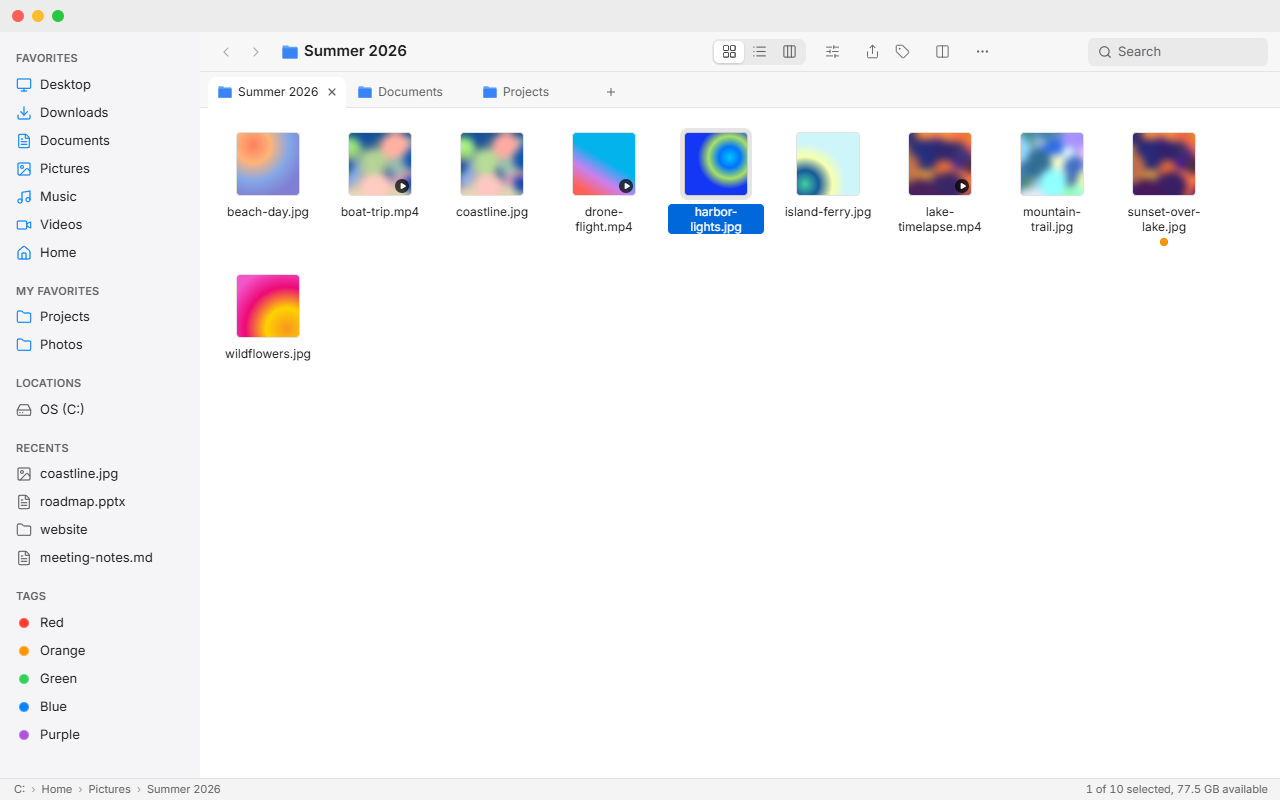
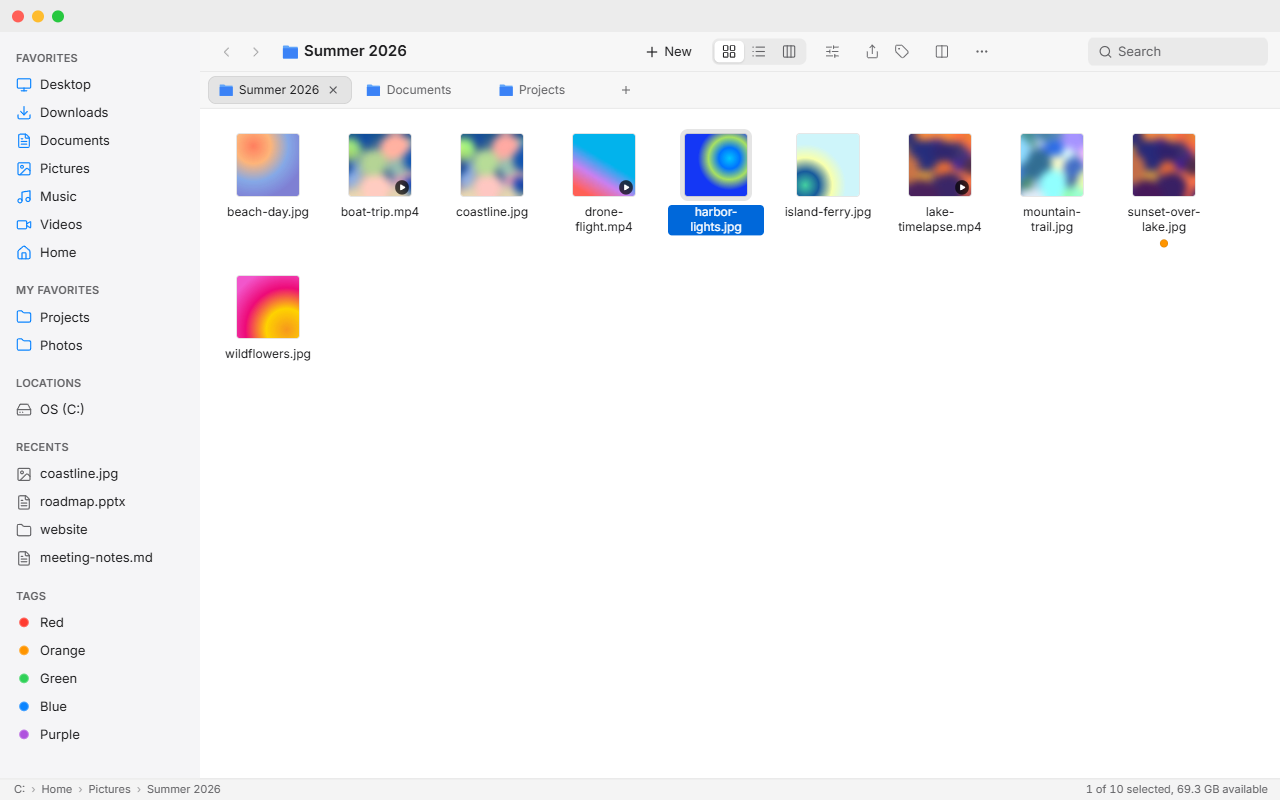
Release 1.4.2

diff --git a/docs/store-listing.md b/docs/store-listing.md
@@ -27,21 +27,26 @@ Browse deep folder trees in Column view with a preview pane, or switch to Icons 
 
 Press Ctrl+K to open the command palette: jump to favorites, recent folders and tabs, run any action, or type a path. Press Space for a quick preview – images, PDF, video, audio, text, source code and Markdown.
 
-Finder-Win works with the real Windows clipboard, so you can copy files to and from File Explorer, Outlook or your browser. Drag files in from File Explorer or the desktop. Undo and redo cover the last 50 operations, including deletions (restored from the Recycle Bin).
+Finder-Win works with the real Windows clipboard, so you can copy files to and from File Explorer, Outlook or your browser. Drag & drop works both ways: drag files in from File Explorer or the desktop, and drag them out to File Explorer, the desktop, a browser upload, Discord or an e-mail. The New button creates folders, text documents and every file type Windows offers in its New menu. Undo and redo cover the last 50 operations, including deletions (restored from the Recycle Bin).
 
 Light and dark mode follow Windows. The interface is in English and Czech.
 
 Privacy: no telemetry, no account, no ads. The Microsoft Store version itself makes no network requests – updates come from the Store.
 
-### Features (6–8)
+### What's new
+First Microsoft Store release.
+
+### Features (6–10)
 1. Column view with a preview pane, plus Icons and List views
 2. Tabs with their own history, view and sorting
 3. Split view: two panels, F5 / F6 copy and move between them
 4. Command palette (Ctrl+K) for folders, actions, tags and paths
 5. Quick preview (Space) for images, PDF, video, audio, text and Markdown
 6. Video and PDF thumbnails with duration, resolution and page count
-7. Real Windows clipboard and drag & drop from File Explorer
-8. Undo / redo for the last 50 file operations; light and dark mode
+7. Real Windows clipboard; drag & drop to and from File Explorer, browser, Discord and e-mail
+8. New button: folder, text document and the Windows New file types
+9. Undo / redo for the last 50 file operations
+10. Light and dark mode that follows Windows; English and Czech
 
 ### Keywords (max 7)
 file manager, mac-style, file explorer, column view, tabs, dual pane, explorer alternative
@@ -63,21 +68,26 @@ Hluboké stromy složek procházíš ve sloupcovém zobrazení s náhledovým pa
 
 Ctrl+K otevře paletu příkazů: skok na oblíbené a nedávné složky či záložky, libovolná akce nebo zadání cesty. Mezerník otevře rychlý náhled – obrázky, PDF, video, zvuk, text, zdrojáky i Markdown.
 
-Finder-Win používá skutečnou schránku Windows, takže soubory kopíruješ z i do Průzkumníku, Outlooku nebo prohlížeče. Soubory jde přetáhnout dovnitř z Průzkumníku nebo z plochy. Zpět a Znovu fungují pro posledních 50 operací včetně mazání (obnoví z Koše).
+Finder-Win používá skutečnou schránku Windows, takže soubory kopíruješ z i do Průzkumníku, Outlooku nebo prohlížeče. Přetahování funguje oběma směry: soubory přetáhneš dovnitř z Průzkumníku nebo z plochy a ven do Průzkumníku, na plochu, do prohlížeče, Discordu nebo e-mailu. Tlačítko Nový vytvoří složku, textový dokument i jakýkoli typ souboru z nabídky Nový ve Windows. Zpět a Znovu fungují pro posledních 50 operací včetně mazání (obnoví z Koše).
 
 Světlý a tmavý režim se řídí Windows. Rozhraní je česky a anglicky.
 
 Soukromí: žádná telemetrie, žádný účet, žádné reklamy. Verze z Microsoft Storu sama nedělá žádné síťové požadavky – aktualizace přicházejí ze Storu.
 
-### Funkce (6–8)
+### Novinky
+První vydání v Microsoft Storu.
+
+### Funkce (6–10)
 1. Sloupcové zobrazení s náhledovým panelem, k tomu Ikony a Seznam
 2. Záložky s vlastní historií, zobrazením a řazením
 3. Rozdělené okno: dva panely, F5 / F6 kopíruje a přesouvá mezi nimi
 4. Paleta příkazů (Ctrl+K) pro složky, akce, štítky a cesty
 5. Rychlý náhled (mezerník) pro obrázky, PDF, video, zvuk, text a Markdown
 6. Náhledy videí a PDF s délkou, rozlišením a počtem stran
-7. Skutečná schránka Windows a přetahování z Průzkumníku
-8. Zpět / Znovu pro posledních 50 operací; světlý a tmavý režim
+7. Skutečná schránka Windows; přetahování z i do Průzkumníku, prohlížeče, Discordu a e-mailu
+8. Tlačítko Nový: složka, textový dokument a typy souborů z nabídky Nový ve Windows
+9. Zpět / Znovu pro posledních 50 operací
+10. Světlý a tmavý režim podle Windows; čeština a angličtina
 
 ### Klíčová slova (max 7)
 správce souborů, styl macu, průzkumník, sloupcové zobrazení, záložky, dva panely, file manager

diff --git a/README.cs.md b/README.cs.md
@@ -38,7 +38,7 @@ nebo: `winget install krystof2-ops.FinderWin` *(brzy)*
 </picture>
 
 - Zobrazení **Ikony, Seznam a Sloupce**; náhledy obrázků, videí (s odznakem ▶) a PDF.
-- **Záložky** – každá s vlastní historií, zobrazením, řazením a výběrem; přerovnání tažením, soubor puštěný na záložku se přesune do její složky.
+- **Záložky** – zaoblené čipy, každá s vlastní historií, zobrazením, řazením a výběrem; přerovnání tažením, soubor puštěný na záložku se přesune do její složky.
 - **Světlý a tmavý režim** podle Windows, nebo nastavený v Více → Vzhled. Rozhraní česky a anglicky.
 
 ### Rozdělené okno
@@ -67,7 +67,10 @@ nebo: `winget install krystof2-ops.FinderWin` *(brzy)*
 
 ### Běžná práce se soubory
 
-- **Skutečná schránka Windows** – Ctrl+C / Ctrl+X / Ctrl+V fungují s Průzkumníkem, Outlookem i prohlížeči; soubory jde přetáhnout dovnitř z Průzkumníku nebo z plochy.
+- **Skutečná schránka Windows** – Ctrl+C / Ctrl+X / Ctrl+V fungují s Průzkumníkem, Outlookem i prohlížeči.
+- **Drag & drop oběma směry** – soubory jde pustit dovnitř z Průzkumníku nebo z plochy a přetáhnout ven do Průzkumníku, na plochu, do uploadu v prohlížeči, do Discordu nebo do e-mailu. Výchozí je kopie, `Shift` přesouvá.
+- **Tlačítko + Nový** v toolbaru – Složka, Textový dokument a všechny typy z nabídky Nový ve Windows (Word, Excel, ZIP …); také v kontextovém menu (Nový ▸) a v paletě příkazů. Kolize názvů dostanou „(2)“ jako v Průzkumníku.
+- **Terminály** – PowerShell 7 a Windows PowerShell jsou v Více → Terminál zvlášť; `Shift`+klik na Otevřít v terminálu nabídne libovolný nainstalovaný terminál.
 - **Zpět / Znovu** (Ctrl+Z / Ctrl+Y) pro posledních 50 přejmenování, přesunů, kopií, nových položek, smazání a změn štítků.
 - **Postranní panel** se standardními složkami, všemi disky (aktualizuje se po připojení USB), vlastními oblíbenými, nedávnými a barevnými štítky jako ve Finderu.
 
@@ -130,7 +133,6 @@ Připravujeme: **winget** (`winget install krystof2-ops.FinderWin`; manifest je 
 
 - Jen pro Windows.
 - Historie Zpět platí jen za běhu aplikace. Soubor přepsaný volbou *Nahradit* se vrátit nedá.
-- Soubory jde do Finder-Winu přetáhnout, ale ne ven do Průzkumníku nebo jiných aplikací – místo toho Ctrl+C a vložit tam.
 - Telefony a fotoaparáty (MTP) jsou v panelu vidět, ale otevřou se v Průzkumníku Windows.
 - Rekurzivní hledání porovnává jen názvy souborů a končí na 500 výsledcích.
 - Záložky ano, víc oken ne.

diff --git a/README.md b/README.md
@@ -38,7 +38,7 @@ or: `winget install krystof2-ops.FinderWin` *(coming soon)*
 </picture>
 
 - **Icons, List and Columns** views; thumbnails for images, videos (with a ▶ badge) and PDFs.
-- **Tabs** – each with its own history, view, sorting and selection; drag to reorder, drop files on a tab to move them there.
+- **Tabs** – rounded chips, each with its own history, view, sorting and selection; drag to reorder, drop files on a tab to move them there.
 - **Light and dark mode** following Windows, or set it in More → Appearance. English and Czech UI.
 
 ### Split view
@@ -67,7 +67,10 @@ or: `winget install krystof2-ops.FinderWin` *(coming soon)*
 
 ### Everyday file work
 
-- **Real Windows clipboard** – Ctrl+C / Ctrl+X / Ctrl+V work with Explorer, Outlook and browsers; drag files in from Explorer or the desktop.
+- **Real Windows clipboard** – Ctrl+C / Ctrl+X / Ctrl+V work with Explorer, Outlook and browsers.
+- **Drag & drop both ways** – drop files in from Explorer or the desktop; drag them out to Explorer, the desktop, a browser upload, Discord or an e-mail. Copy by default, `Shift` moves.
+- **+ New button** in the toolbar – Folder, Text Document and every file type from Windows' New menu (Word, Excel, ZIP …); also in the context menu (New ▸) and the command palette. Name collisions get “(2)” like in Explorer.
+- **Terminals** – PowerShell 7 and Windows PowerShell are listed separately in More → Terminal; `Shift`+click Open in Terminal picks any installed terminal.
 - **Undo / Redo** (Ctrl+Z / Ctrl+Y) for the last 50 renames, moves, copies, new items, deletions and tag changes.
 - **Sidebar** with standard folders, all drives (updates when a USB drive is plugged in), custom favorites, recents and Finder-style color tags.
 
@@ -130,7 +133,6 @@ Also coming: **winget** (`winget install krystof2-ops.FinderWin`; the manifest i
 
 - Windows only.
 - Undo history lives only while the app runs. A file overwritten by *Replace* can't be brought back.
-- Files can be dragged *into* Finder-Win, but not out of it to Explorer or other apps – use Ctrl+C and paste there.
 - Phones and cameras (MTP) are listed, but open in Windows Explorer.
 - Recursive search matches file names only and stops at 500 results.
 - Tabs, but no multiple windows.

diff --git a/CLAUDE.md b/CLAUDE.md
@@ -11,7 +11,7 @@ Finder-like správce souborů pro Windows (jen Windows). Tauri 2 + React 19/TS +
 - `src/fileops.ts` – typované wrappery nad `invoke`, vč. `localizeError`.
 - `src/lib/*` – `storage.ts` (settings.json přes tauri-plugin-store), `dnd.ts`, `motion.ts`, `updates.ts` (kontrola aktualizací) aj.
 - `src/i18n/cs.ts` + `en.ts` – překlady; `src/components/` – UI (např. `TabBar.tsx`, `CommandPalette.tsx`).
-- `src-tauri/src/main.rs` – commandy a souborové operace; `clipboard.rs` – schránka Windows (CF_HDROP); `external_drop.rs` – drop z Průzkumníku.
+- `src-tauri/src/main.rs` – commandy a souborové operace; `clipboard.rs` – schránka Windows (CF_HDROP); `external_drop.rs` – drop z Průzkumníku; `native_drag.rs` – tažení ven (nativní OLE drag); `shellnew.rs` – nabídka Nový (registr ShellNew).
 - `winget/` + `.github/workflows/winget-manifest.yml` – manifest a workflow (bere tag jen ve tvaru `vX.Y.Z`).
 - `src-tauri/nsis/Czech.nsh` – vlastní český překlad NSIS instalátoru (`bundle.windows.nsis.customLanguageFiles`).
 - README existuje ve dvou verzích (`README.md`, `README.cs.md`) – měň je společně. Changelog je v `CHANGELOG.md` (README jen odkazuje).

diff --git a/CHANGELOG.md b/CHANGELOG.md
@@ -2,6 +2,14 @@
 
 Notable changes in each Finder-Win release. Installers are on the [Releases](https://github.com/krystof2-ops/finder-win/releases) page.
 
+## [1.4.2](https://github.com/krystof2-ops/finder-win/releases/tag/v1.4.2) – 2026-10-09
+
+- **Drag out of the app** – drag files and folders from Finder-Win to File Explorer, the desktop, a browser upload, Discord or an e-mail. Copy by default, Shift moves. Drag & drop now works both ways.
+- **New button** – **+ New** in the toolbar, like File Explorer: Folder, Text Document and every file type Windows offers in New (Word, Excel, ZIP …); also in the context menu (New ▸) and the command palette.
+- **Rounded tabs** – each tab is a rounded chip; the active one is highlighted without blending into the content.
+- **Terminals** – More → Terminal lists PowerShell 7 and Windows PowerShell separately; unavailable ones are greyed out. Shift+click Open in Terminal picks any installed terminal.
+- **Names like File Explorer** – new items that collide get “(2)”, e.g. “New folder (2)”.
+
 ## [1.4.1](https://github.com/krystof2-ops/finder-win/releases/tag/v1.4.1) – 2026-10-09
 
 - **Fixed:** drag & drop from File Explorer did not work.
